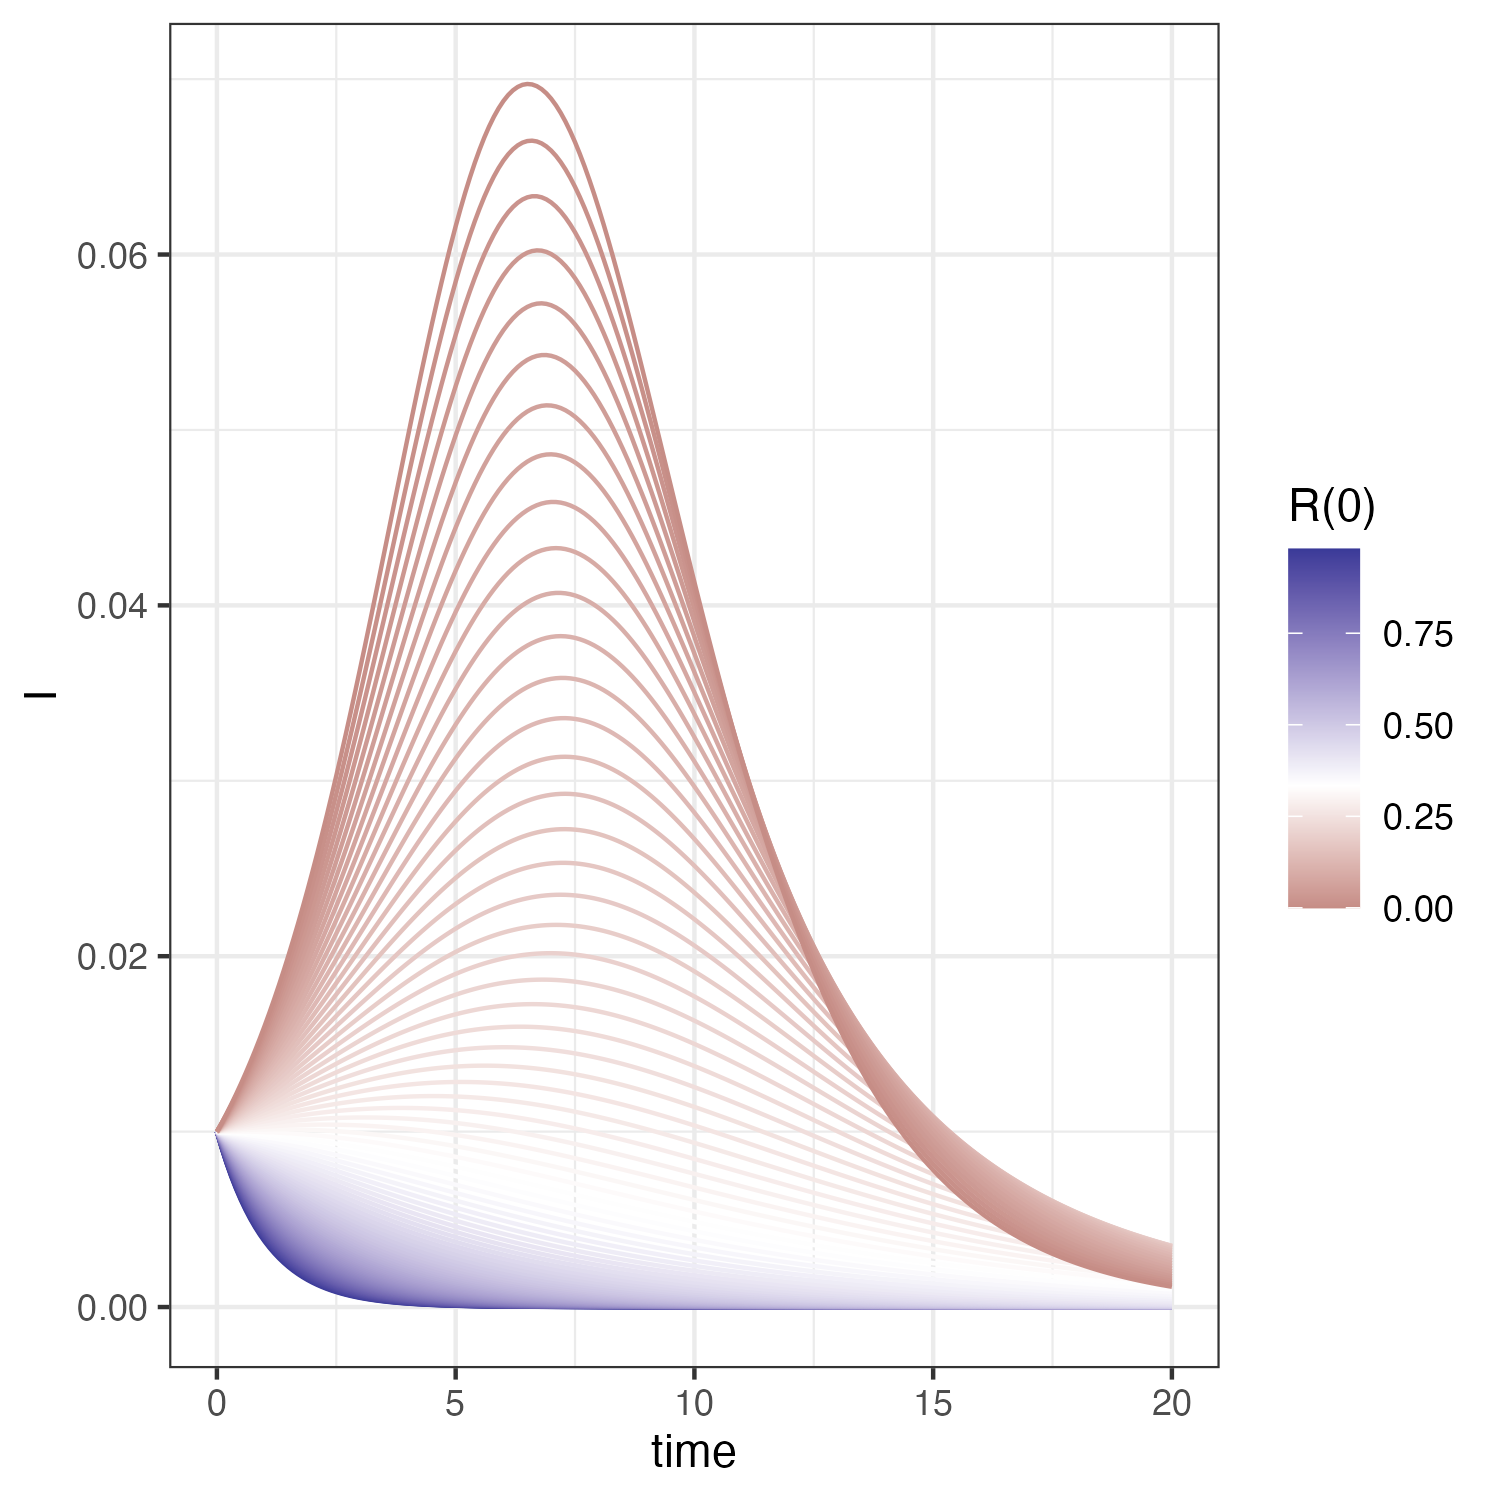
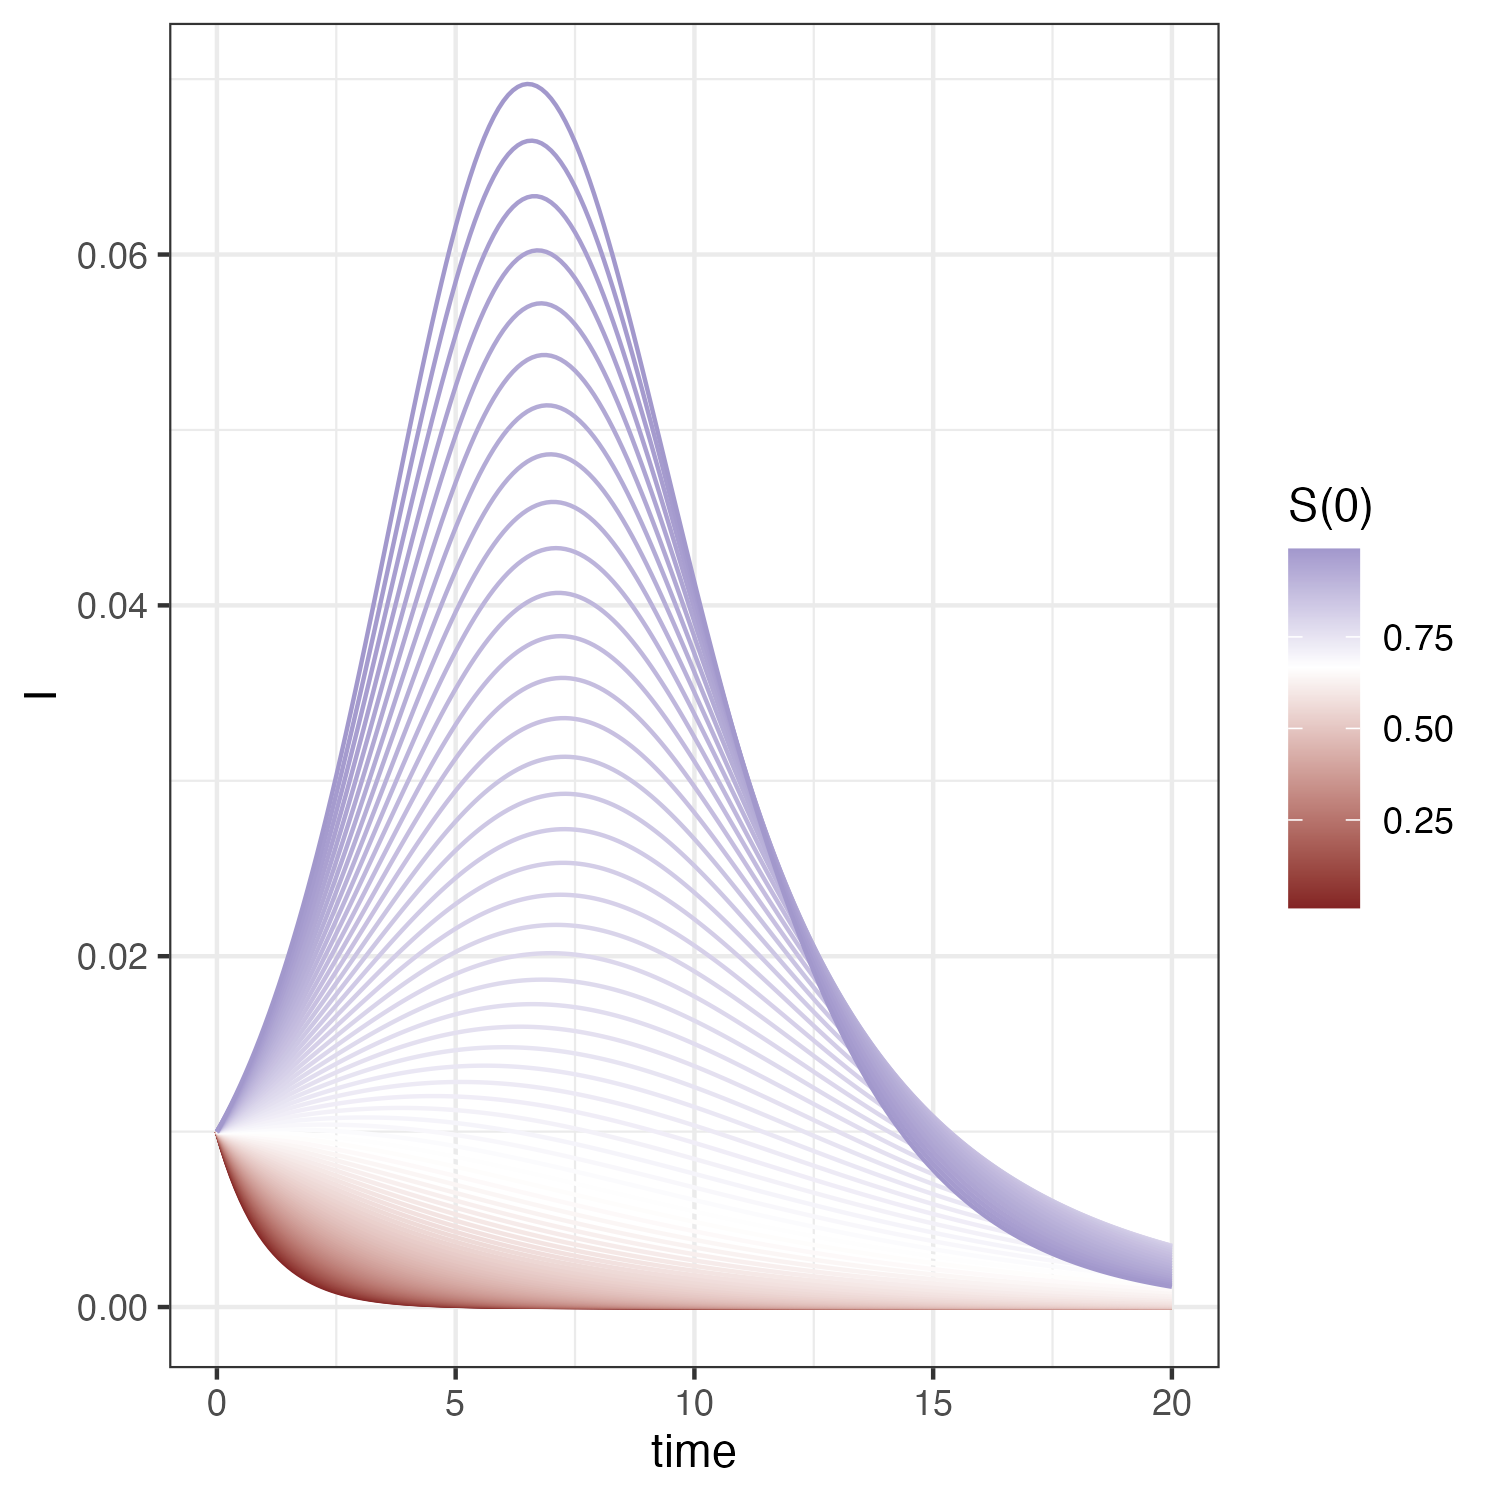
make publish sir

Changed region(s): [[0.1227, 0.0613, 0.7973, 0.8893], [0.8587, 0.3067, 0.9813, 0.6133]]

diff --git a/articles/sir_model_and_r0.md b/articles/sir_model_and_r0.md
@@ -3,12 +3,12 @@ title: "SIRモデルと基本再生産数"
 emoji: "💉"
 type: "tech" # tech: 技術記事 / idea: アイデア
 topics: [R, 微分方程式, 疫学]
-published: false
+published: true
 ---
 
 ## このノートについて
 
-[西浦博編著『感染症流行を読み解く数理』（日本評論社）](https://www.nippyo.co.jp/shop/book/8827.html) の第１章のはじめの方を自分なりに適当と思われるRによる数値例を補いながら読んでいくものです．主に参照した第１章の筆者は小林鉄郎，西浦博です．ただし，当たり前かもしれませんが，この文書の責任は私にあります．
+[西浦博　編著『感染症流行を読み解く数理』（日本評論社）](https://www.nippyo.co.jp/shop/book/8827.html) の第１章のはじめの方を適当な数値例を自分なりに R で補いながら読んでいくものです．この第１章の筆者は小林鉄郎，西浦博です．ただし，（当たり前かもしれませんが，）この文書の責任は私にあります．
 
 ## SIRモデル
 
@@ -23,11 +23,11 @@ $$
  \tag{1}
 $$
 
-$S(t)$ は $t$ 時点でこれから感染する可能性のある人の数，$I(t)$ は感染者数，$R(t)$ は除外数——すなわち病気から回復して免疫を獲得した人などもう感染する可能性のない人の数に対応する． $\beta$, $\gamma$ はパラメータで，$\beta$ は感染者 $I(t)$ 一人あたりかつ単位時間あたりの感染率，$\gamma$ は除外率である．今回は $S(t)+I(t)+R(t)=1$ になるよう正規化されているとする．
+$S(t)$ は $t$ 時点でこれから感染する可能性のある人の数，$I(t)$ は感染者数，$R(t)$ は除外数——すなわち病気から回復して免疫を獲得した人などもう感染する可能性のない人の数に対応する． $\beta$, $\gamma$ はパラメータで，$\beta$ は感染者一人あたりかつ単位時間あたりの感染率，$\gamma$ は除外率である．今回は $S(t)+I(t)+R(t)=1$ になるよう正規化されているとする．
 
 SIRモデルの解をプロットしてみよう．微分方程式を数値的に解くRのパッケージ `deSolve` がある．SIRモデルを数値的に解くには次のようにすればよい．
 
-```
+```r
 library(deSolve)
 
 SIRmod <- function(Time, State, Pars) {
@@ -45,18 +45,24 @@ ini = c(S=0.99, I=0.01, R=0)
 ode_out1 <- ode(y=ini, times=times, func=SIRmod, parms=pars)
 ```
 
-![](/Zenn_content/images/sir_model_and_r0/SIR_sol.png)
+![](/images/sir_model_and_r0/SIR_sol.png)
 *SIRモデルの解 $S(t), I(t), R(t)$ のグラフ．横の点線については後述する．*
 
 パラメータは `pars  <- c(beta=1.5, gamma=1)` の部分で　$\beta=1.5, \gamma=1$ と与えた．
 
-さて，感染症の流行時に感染が広がるのか収束していくのかには特に興味がある．そこで初期値をいくつか振り，感染者数 $I(t)$ をプロットしてみる．
+さて，感染症の流行時に感染が広がるのか収束していくのかには特に興味がある．そこで初期値をいくつか振り，感染者数 $I(t)$ をプロットしてみる．総和が1になるよう，初期値は次のように与えた．
 
-![](/Zenn_content/images/sir_model_and_r0/SIR_sol.png)
-*SIRモデルの解 $I(t)$ についてのグラフ．*
+```r
+library(dplyr)
+df_state <- data.frame(S=seq(0.01, 0.99, 0.01)) %>% 
+  mutate(I=0.01) %>% 
+  mutate(R=1-(S+I))
+```
 
-ある値は
-この「ある値」は $\gamma / \beta$ である．
+![](/images/sir_model_and_r0/SIR_I.png)
+*SIRモデルの解 $I(t)$ についてのグラフ．色分けは $S(0)$ による．*
+
+初期値による色分けに着目すると，ある値を境に $I(t)$ が増加するか単調に減少するかが分かれることがわかる．実は，この「ある値」は $\gamma / \beta$ である．
 
 初期状態での変化量が正になるのは, $I(t)$ についての方程式
 
@@ -82,7 +88,7 @@ $$
  R(0) < 1 - \gamma/\beta.
 $$
 
-SIRモデル内においては，ワクチンで免疫を獲得した人が $ 1 - \gamma/\beta$ より多ければ感染が拡大しないだろうと見積もれることを意味する．
+SIRモデル内においては，ワクチンで免疫を獲得した人が $1 - \gamma/\beta$ より多ければ感染が拡大しないだろうと見積もれることを意味する．
 
 
 ## 基本再生産数
@@ -121,7 +127,14 @@ $$
 R_0 = - \frac{\log (1-z) -\log S(0)}{z-R(0)}. 
 $$
 
-実はこれを $z$ について解いた値が最初の図に引いていた点線の意味である．いま $R(0)$ は0，$S(0)$ はほぼ1の状況を考えていたので，上の等式を次のように表すことができる．
+実はこれを $z$ について解いた値が最初の図に引いていた点線の意味である．数値的に解くために次のようにした．
+
+```r
+R0 <- pars["beta"]/pars["gamma"]
+z_root <- uniroot(function(z)R0 + (log1p(-z)-log(ini["S"]))/(z-ini["R"]), interval = c(0.001,1))
+```
+
+いま $R(0)$ は0，$S(0)$ はほぼ1の状況を考えていたので，上の等式を次のように表すことができる．
 
 $$
 R_0 = - \frac{\log (1-z)}{z}.
@@ -129,9 +142,15 @@ $$
 
 これは最終規模方程式と呼ばれる．SIRモデル内においては，感染が拡大したときの最終的な規模が，基本再生産数 $R_0$ のみによって決まることを意味する．$R_0$ を動かして $z$ をプロットしてやると次のようになる．
 
-![](/Zenn_content/images/sir_model_and_r0/size_by_R0.png)
+![](/images/sir_model_and_r0/size_by_R0.png)
 *基本再生産数ごとの最終的な感染者数*
+
+このノートで使用したコードの全体を以下に置く．
+
+https://github.com/abikoushi/Zenn_content/blob/main/R/sir_model_and_r0.R
 
 ## 落穂拾い
 
 微分方程式で表されるモデルの傾きが 0 になる点の集合をヌルクラインと呼ぶ．ヌルクラインを境に解の振る舞いが大きく変わるというのは，SIRモデルに限ったことではない．このことは [Hirsch・Smale・Devaney 力学系入門（共立出版）](https://www.kyoritsu-pub.co.jp/book/b10003811.html) などに詳しい．
+
+おしまい．